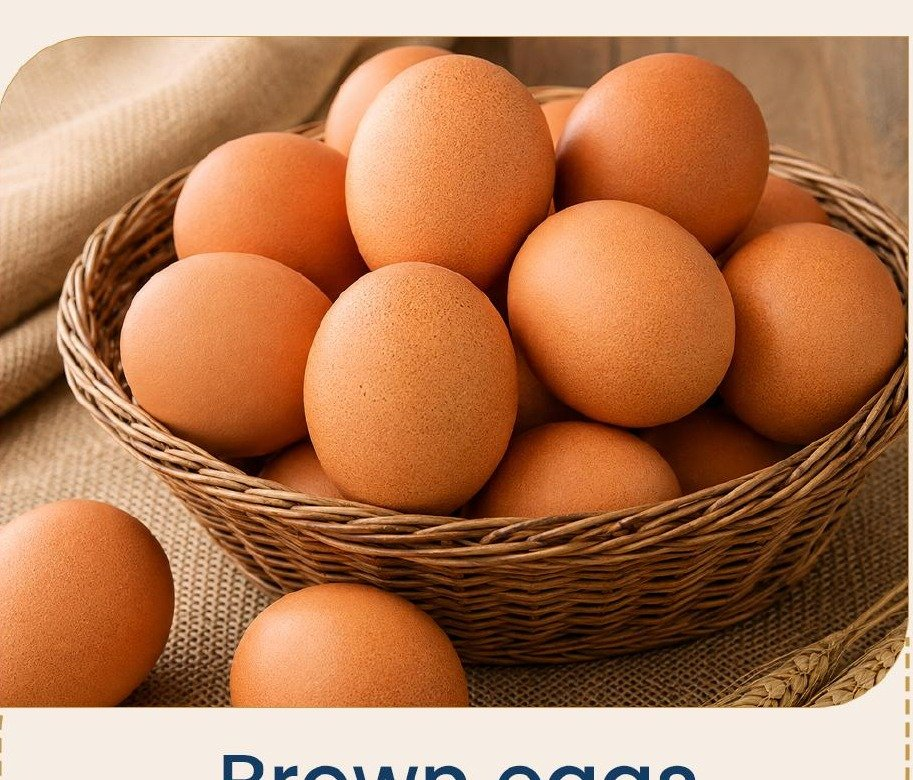
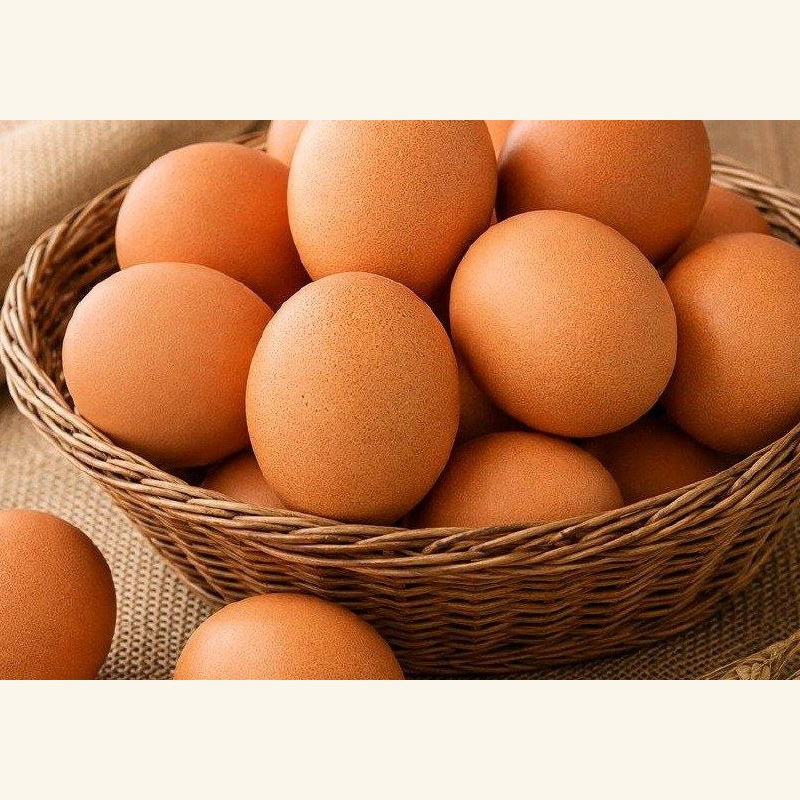
updated varities

diff --git a/components/ProductVarietiesView/index.tsx b/components/ProductVarietiesView/index.tsx
@@ -29,6 +29,7 @@ interface CashewVariety {
     subtitle: string;
     image: string;
     desc?: string;
+    imageClass?: string;
 }
 
 interface PhotoCard {
@@ -65,6 +66,7 @@ interface ProductVarietyData {
     cashewVarieties?: CashewVariety[];
     riceVarieties?: RiceVariety[];
     photoCards?: PhotoCard[];
+    formCards?: PhotoCard[];
     varieties?: VarietyItem[];
     facts?: string[];
     table?: {
@@ -119,15 +121,44 @@ const VARIETIES_DATA: ProductVarietyData[] = [
         description: 'Renowned worldwide for its high natural curcumin content, deep golden hue, and potent antimicrobial aroma. Sourced from the regulated agricultural markets of Erode and surrounding belts.',
         type: 'turmeric-row',
         photoCards: [
-            { label: 'POWDER', image: '/assets/turmeric-powder.jpg' },
-            { label: 'FINGER', image: '/assets/turmeric-finger.jpg' },
-            { label: 'BULB', image: '/assets/turmeric-bulb.jpg' },
+            {
+                label: 'COMMERCIAL',
+                subtitle: 'Conventional Grade • Double Polished',
+                image: '/assets/commercial.png',
+            },
+            {
+                label: 'IPM',
+                subtitle: 'Pesticide Controlled • EU / US MRL Compliant',
+                image: '/assets/ipm.png',
+            },
+            {
+                label: 'ORGANIC',
+                subtitle: '100% Chemical-Free • Certified Organic',
+                image: '/assets/organic.png',
+            },
+        ],
+        formCards: [
+            {
+                label: 'POWDER',
+                subtitle: '100% Pure Fine Ground 100–120 Mesh',
+                image: '/assets/turmeric-powder.jpg',
+            },
+            {
+                label: 'FINGER',
+                subtitle: 'Double & Single Polished Whole Fingers',
+                image: '/assets/turmeric-finger.jpg',
+            },
+            {
+                label: 'BULB',
+                subtitle: 'High Curcumin Whole Round Bulbs (Gatha)',
+                image: '/assets/turmeric-bulb.jpg',
+            },
         ],
         facts: [
             'Curcumin Range: 3.0% – 5.0%+',
             'Double Polished & Single Polished Fingers',
             'Low Moisture (<10%) for Long Transit Stability',
-            'Certified Free from Artificial Colorants / Lead Chromate',
+            'Certified Free from Artificial Colorants & Lead Chromate',
         ],
     },
     {
@@ -170,6 +201,7 @@ const VARIETIES_DATA: ProductVarietyData[] = [
                 subtitle: 'Large Size',
                 image: '/assets/cashew-w240.jpg',
                 desc: 'Large size cashew offering an ideal balance of visual size and commercial value.',
+                imageClass: 'scale-115 translate-x-4',
             },
             {
                 label: 'W320',
@@ -253,7 +285,7 @@ const VARIETIES_DATA: ProductVarietyData[] = [
         type: 'photo-grid',
         photoCards: [
             { label: 'WHITE EGGS', subtitle: 'Export Table Eggs (50g–60g)', image: '/assets/eggs-white.jpg' },
-            { label: 'BROWN EGGS', subtitle: 'Free-Range Farm Fresh', image: '/assets/eggs-brown.jpg' },
+            { label: 'BROWN EGGS', subtitle: 'Free-Range Farm Fresh', image: '/assets/brown-eggs.png' },
         ],
     },
 ];
@@ -425,24 +457,78 @@ const ProductVarietiesView: React.FC<ProductVarietiesViewProps> = ({
                     </div>
                 )}
 
-                {/* 2. TURMERIC - Exact 3-Card Row (Matching Image 2) */}
-                {activeProduct.type === 'turmeric-row' && activeProduct.photoCards && (
-                    <div className="mb-14">
-                        <div className="grid grid-cols-1 sm:grid-cols-3 gap-6 sm:gap-8">
-                            {activeProduct.photoCards.map((v) => (
-                                <div
-                                    key={v.label}
-                                    className="bg-[#FBF6EC] border-2 border-[#C2A470] rounded-[2.5rem] p-6 sm:p-7 flex flex-col items-center text-center shadow-sm hover:shadow-lg transition-all"
-                                >
-                                    <div className="w-full aspect-[4/3] sm:aspect-square rounded-2xl overflow-hidden mb-5 bg-transparent flex items-center justify-center">
-                                        <img src={v.image} alt={v.label} className="w-full h-full object-contain transform hover:scale-105 transition-transform duration-300" />
-                                    </div>
-                                    <h3 className="text-xl sm:text-2xl font-bold text-[#132644] tracking-widest uppercase font-serif">
-                                        {v.label}
-                                    </h3>
+                {/* 2. TURMERIC - Variety Grades & Processing Forms */}
+                {activeProduct.type === 'turmeric-row' && (
+                    <div className="space-y-12 mb-14">
+                        {/* Quality & Cultivation Grades (Commercial, IPM, Organic) */}
+                        {activeProduct.photoCards && (
+                            <div>
+                                <div className="text-center mb-8">
+                                    <span className="text-xs font-bold text-[#8a6f3f] uppercase tracking-widest bg-white px-4 py-1.5 rounded-full border border-[#C2A470]/30 shadow-xs inline-block mb-2">
+                                        Cultivation &amp; Sourcing Grades
+                                    </span>
+                                    <h2 className="text-2xl sm:text-3xl font-bold text-[#132644] font-serif">
+                                        Quality &amp; Compliance Varieties
+                                    </h2>
                                 </div>
-                            ))}
-                        </div>
+
+                                <div className="grid grid-cols-1 sm:grid-cols-3 gap-6 sm:gap-8">
+                                    {activeProduct.photoCards.map((v) => (
+                                        <div
+                                            key={v.label}
+                                            className="bg-[#FBF6EC] border-2 border-dashed border-[#C2A470] rounded-[2.5rem] p-6 sm:p-7 flex flex-col items-center text-center shadow-sm hover:shadow-xl transition-all duration-300 group hover:-translate-y-1"
+                                        >
+                                            <div className="w-44 h-44 sm:w-52 sm:h-52 rounded-full overflow-hidden border-4 border-white shadow-lg mb-5 bg-white flex-shrink-0 relative group-hover:scale-105 transition-transform duration-500">
+                                                <img src={v.image} alt={v.label} className="w-full h-full object-cover" />
+                                            </div>
+                                            <h3 className="text-xl sm:text-2xl font-bold text-[#132644] tracking-wider uppercase font-serif">
+                                                {v.label}
+                                            </h3>
+                                            {v.subtitle && (
+                                                <p className="text-[#8a6f3f] text-xs sm:text-sm mt-1.5 font-semibold">
+                                                    {v.subtitle}
+                                                </p>
+                                            )}
+                                        </div>
+                                    ))}
+                                </div>
+                            </div>
+                        )}
+
+                        {/* Physical Processing Forms (Powder, Finger, Bulb) */}
+                        {activeProduct.formCards && (
+                            <div>
+                                <div className="text-center mb-8">
+                                    <span className="text-xs font-bold text-[#8a6f3f] uppercase tracking-widest bg-white px-4 py-1.5 rounded-full border border-[#C2A470]/30 shadow-xs inline-block mb-2">
+                                        Available Product Forms
+                                    </span>
+                                    <h2 className="text-2xl sm:text-3xl font-bold text-[#132644] font-serif">
+                                        Processing Forms &amp; Cuts
+                                    </h2>
+                                </div>
+
+                                <div className="grid grid-cols-1 sm:grid-cols-3 gap-6 sm:gap-8">
+                                    {activeProduct.formCards.map((v) => (
+                                        <div
+                                            key={v.label}
+                                            className="bg-[#FBF6EC] border-2 border-[#C2A470] rounded-[2.5rem] p-6 sm:p-7 flex flex-col items-center text-center shadow-sm hover:shadow-lg transition-all"
+                                        >
+                                            <div className="w-full aspect-[4/3] sm:aspect-square rounded-2xl overflow-hidden mb-5 bg-transparent flex items-center justify-center">
+                                                <img src={v.image} alt={v.label} className="w-full h-full object-contain transform hover:scale-105 transition-transform duration-300" />
+                                            </div>
+                                            <h3 className="text-xl sm:text-2xl font-bold text-[#132644] tracking-widest uppercase font-serif">
+                                                {v.label}
+                                            </h3>
+                                            {v.subtitle && (
+                                                <p className="text-slate-600 text-xs sm:text-sm mt-1.5 font-medium">
+                                                    {v.subtitle}
+                                                </p>
+                                            )}
+                                        </div>
+                                    ))}
+                                </div>
+                            </div>
+                        )}
 
                         {activeProduct.facts && (
                             <div className="mt-8 bg-white rounded-2xl p-6 border border-[#132644]/10 shadow-xs">
@@ -509,11 +595,15 @@ const ProductVarietiesView: React.FC<ProductVarietiesViewProps> = ({
                             {activeProduct.cashewVarieties.map((v) => (
                                 <div
                                     key={v.label}
-                                    className="bg-[#FBF6EC] border-2 border-dashed border-[#C2A470] rounded-[2.5rem] p-7 sm:p-9 flex flex-col items-center text-center shadow-sm hover:shadow-lg transition-all duration-300 relative overflow-hidden"
+                                    className="group bg-[#FBF6EC] border-2 border-dashed border-[#C2A470] rounded-[2.5rem] p-7 sm:p-9 flex flex-col items-center text-center shadow-sm hover:shadow-lg transition-all duration-300 relative overflow-hidden"
                                 >
                                     {/* Circle Image with bowl of cashews */}
-                                    <div className="w-48 h-48 sm:w-56 sm:h-56 rounded-full overflow-hidden border-4 border-white shadow-lg mb-6 bg-white flex-shrink-0">
-                                        <img src={v.image} alt={v.label} className="w-full h-full object-cover transform hover:scale-105 transition-transform duration-300" />
+                                    <div className="w-48 h-48 sm:w-56 sm:h-56 rounded-full overflow-hidden border-4 border-white shadow-lg mb-6 bg-white flex-shrink-0 relative">
+                                        <img
+                                            src={v.image}
+                                            alt={v.label}
+                                            className={`w-full h-full object-cover transition-transform duration-300 group-hover:scale-105 ${v.imageClass ? `${v.imageClass} group-hover:scale-120` : ''}`}
+                                        />
                                     </div>
 
                                     {/* Title */}
@@ -750,20 +840,22 @@ const ProductVarietiesView: React.FC<ProductVarietiesViewProps> = ({
 
                 {/* 7. EGGS PHOTO GRID */}
                 {activeProduct.type === 'photo-grid' && activeProduct.photoCards && (
-                    <div className="grid sm:grid-cols-2 gap-8 mb-14 max-w-4xl mx-auto">
+                    <div className="grid sm:grid-cols-2 gap-6 sm:gap-8 mb-14 max-w-4xl mx-auto">
                         {activeProduct.photoCards.map((v) => (
                             <div
                                 key={v.label}
-                                className="bg-[#FBF6EC] border-2 border-[#C2A470] rounded-3xl p-6 flex flex-col items-center text-center shadow-sm"
+                                className="group bg-[#FBF6EC] border-2 border-dashed border-[#C2A470] rounded-[2.5rem] p-7 sm:p-9 flex flex-col items-center text-center shadow-sm hover:shadow-xl transition-all duration-300 relative overflow-hidden hover:-translate-y-1"
                             >
-                                <div className="aspect-square w-full rounded-2xl overflow-hidden mb-5 bg-white shadow-xs">
+                                <div className="w-48 h-48 sm:w-56 sm:h-56 rounded-full overflow-hidden border-4 border-white shadow-lg mb-6 bg-white flex-shrink-0 relative group-hover:scale-105 transition-transform duration-500">
                                     <img src={v.image} alt={v.label} className="w-full h-full object-cover" />
                                 </div>
-                                <h3 className="text-xl sm:text-2xl font-bold text-[#132644] font-serif uppercase mb-1">
+                                <h3 className="text-2xl sm:text-3xl font-bold text-[#132644] font-serif uppercase tracking-wide mb-1.5">
                                     {v.label}
                                 </h3>
                                 {v.subtitle && (
-                                    <p className="text-slate-600 text-sm font-medium">{v.subtitle}</p>
+                                    <p className="text-[#8a6f3f] text-sm sm:text-base font-semibold">
+                                        {v.subtitle}
+                                    </p>
                                 )}
                             </div>
                         ))}

diff --git a/components/DetailedProductView/index.tsx b/components/DetailedProductView/index.tsx
@@ -24,11 +24,6 @@ interface ProductBlock {
     varietiesSummary?: string;
     description: string;
     facts?: string[];
-    table?: {
-        rows: { attribute: string; a: string; b: string }[];
-        colA: string;
-        colB: string;
-    };
 }
 
 const PRODUCTS: ProductBlock[] = [
@@ -47,7 +42,7 @@ const PRODUCTS: ProductBlock[] = [
         image: '/assets/erode-turmeric-powder.jpeg',
         badge: 'GI Tagged',
         hasVarieties: true,
-        varietiesSummary: 'Powder, Double-Polished Finger & Bulb',
+        varietiesSummary: 'Commercial, IPM & Organic (Fingers, Bulbs & Powder)',
         description: "Famous Erode turmeric from Tamil Nadu, known as the “Turmeric City of India.” High curcumin content, bright golden colour and strong aroma.",
     },
     {
@@ -66,22 +61,13 @@ const PRODUCTS: ProductBlock[] = [
         hasVarieties: true,
         varietiesSummary: 'Tellicherry Extra Bold (TGSEB) & Malabar Garbled (MG1)',
         description: 'Premium quality black pepper sourced from the renowned growing regions of Karnataka and Kerala. Carefully selected for rich aroma, strong pungency and superior quality. All sizes available.',
-        table: {
-            colA: 'Karnataka',
-            colB: 'Kerala',
-            rows: [
-                { attribute: 'Aroma', a: 'Mild to moderate', b: 'Strong & complex' },
-                { attribute: 'Oil Content', a: 'Moderate', b: 'Higher' },
-                { attribute: 'Pungency', a: 'Good', b: 'Higher' },
-            ],
-        },
     },
     {
         name: 'Seeraga Samba Rice',
         origin: 'Tamil Nadu Delta',
         image: '/assets/seevaga-samba-rice.png',
         badge: 'GI Tagged',
-        description: 'A premium, tiny-grained, aromatic South Indian rice variety and a traditional Tamil Nadu delta rice. Its unique texture aids in absorbing rich spices deeply, and it is preferred for easier digestion.',
+        description: 'A premium tiny-grained, aromatic South Indian rice variety. Its unique texture aids in absorbing rich spices deeply — preferred for its rice and easier digestion.',
     },
     {
         name: 'Kavuni Rice',
@@ -143,11 +129,10 @@ const PRODUCTS: ProductBlock[] = [
 
 const Tag: React.FC<{ children: React.ReactNode; muted?: boolean }> = ({ children, muted }) => (
     <span
-        className={`text-[11px] font-bold px-3 py-1 rounded-full border whitespace-nowrap ${
-            muted
+        className={`text-[11px] font-bold px-3 py-1 rounded-full border whitespace-nowrap ${muted
                 ? 'bg-transparent text-[#132644]/70 border-[#132644]/15'
                 : 'bg-[#132644]/[0.04] text-[#132644] border-[#132644]/10'
-        }`}
+            }`}
     >
         {children}
     </span>
@@ -197,23 +182,6 @@ const ProductCard: React.FC<{
                 </div>
             )}
 
-            {/* Table if present (e.g. Pepper) */}
-            {product.table && (
-                <div className="mb-4 rounded-xl border border-[#132644]/10 overflow-hidden text-xs">
-                    <div className="grid grid-cols-3 bg-[#132644]/[0.05] font-bold text-[#132644] uppercase p-2 text-[10px]">
-                        <div>Attribute</div>
-                        <div>{product.table.colA}</div>
-                        <div>{product.table.colB}</div>
-                    </div>
-                    {product.table.rows.map((r) => (
-                        <div key={r.attribute} className="grid grid-cols-3 p-2 border-t border-slate-100 text-xs">
-                            <span className="font-semibold text-[#8a6f3f]">{r.attribute}</span>
-                            <span className="text-slate-600">{r.a}</span>
-                            <span className="text-slate-600">{r.b}</span>
-                        </div>
-                    ))}
-                </div>
-            )}
 
             {/* Fact tags if present */}
             {product.facts && (
